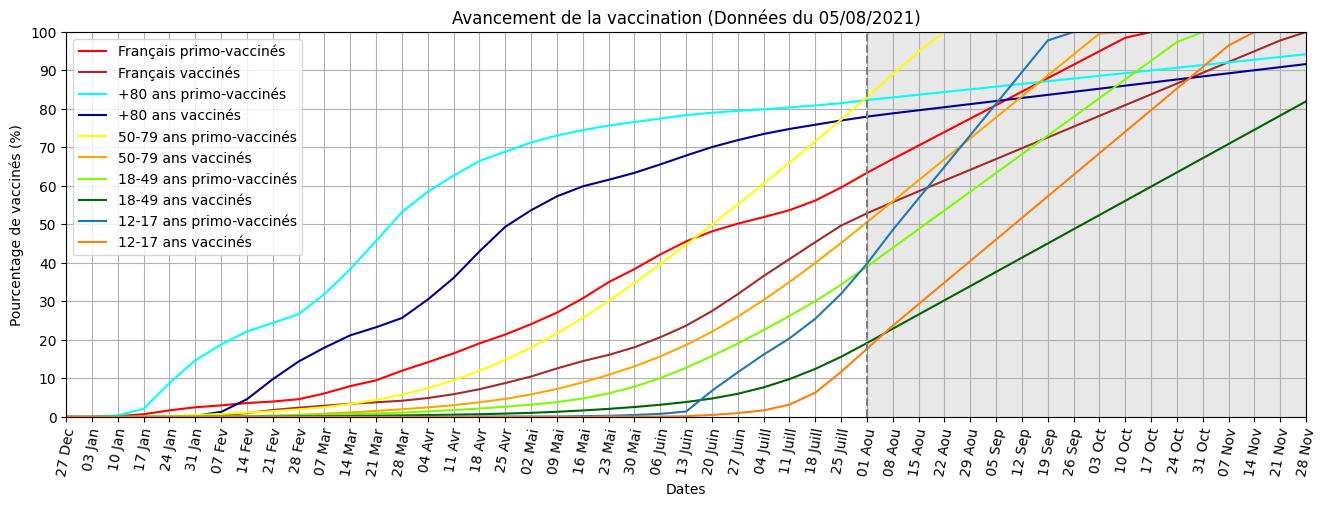
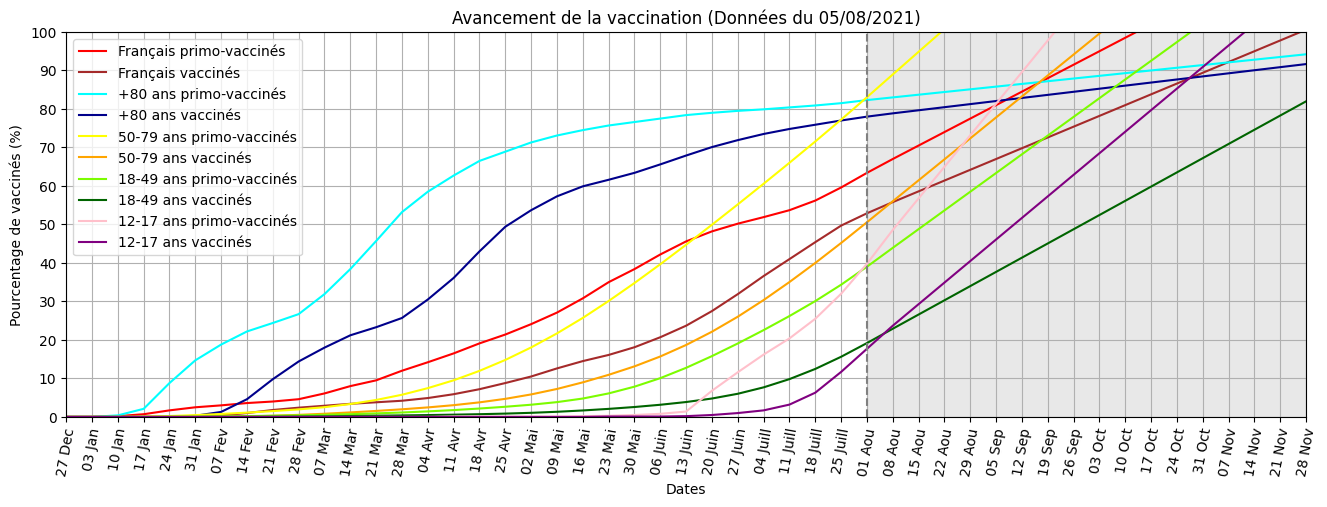
Courbes 12-17 ans en rose/violet

diff --git a/main.py b/main.py
@@ -53,8 +53,7 @@ def formatDate(date):
 def projectionObjectif(liste):
     coeff = (liste[-1]-liste[-1-nb_jour_prediction])/nb_jour_prediction         #Évolution de la courbe calculé à partir des 7 derniers jours
     while len(liste_dates) != len(liste):                                       #Tant que la projection n'égale pas la date de fin (31 Août) :
-        if liste[-1]+coeff <= 100: liste.append(liste[-1]+coeff)
-        else: liste.append(100)
+        liste.append(liste[-1]+coeff)
     return liste
 
 #Sert à espacer les dates selon limite_ecart_jour
@@ -206,8 +205,8 @@ plt.plot(liste_dates_reduite, ecartDate(reduction(projectionObjectif(proportion_
 plt.plot(liste_dates_reduite, ecartDate(reduction(projectionObjectif(proportion_injections_completes_50_79_ans))), "orange", label = "50-79 ans vaccinés")
 plt.plot(liste_dates_reduite, ecartDate(reduction(projectionObjectif(proportion_primo_injections_18_49_ans))), "lawngreen", label = "18-49 ans primo-vaccinés")
 plt.plot(liste_dates_reduite, ecartDate(reduction(projectionObjectif(proportion_injections_completes_18_49_ans))), "darkgreen", label = "18-49 ans vaccinés")
-plt.plot(liste_dates_reduite, ecartDate(reduction(projectionObjectif(proportion_primo_injections_12_17_ans))), label = "12-17 ans primo-vaccinés")
-plt.plot(liste_dates_reduite, ecartDate(reduction(projectionObjectif(proportion_injections_completes_12_17_ans))), label = "12-17 ans vaccinés")
+plt.plot(liste_dates_reduite, ecartDate(reduction(projectionObjectif(proportion_primo_injections_12_17_ans))), "pink", label = "12-17 ans primo-vaccinés")
+plt.plot(liste_dates_reduite, ecartDate(reduction(projectionObjectif(proportion_injections_completes_12_17_ans))), "purple", label = "12-17 ans vaccinés")
 
 #Trace une zone en gris clair délimitée par une ligne verticales en pointillé pour désigner les prédictions des courbes (si les données n'ont pas été raccourcis)
 if donnees_racourcies == False:
